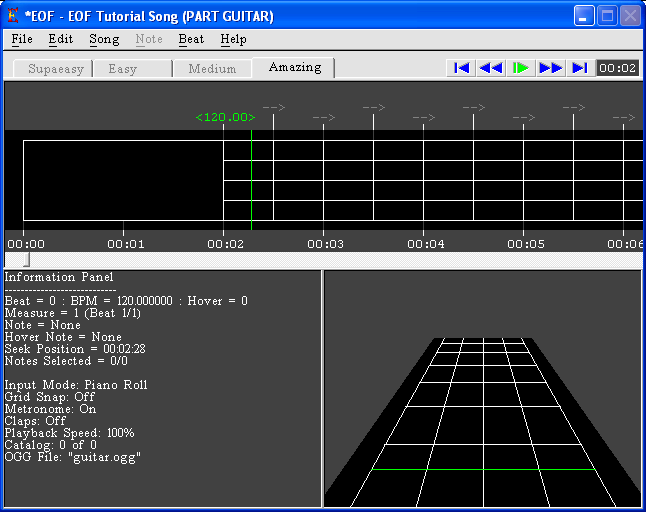
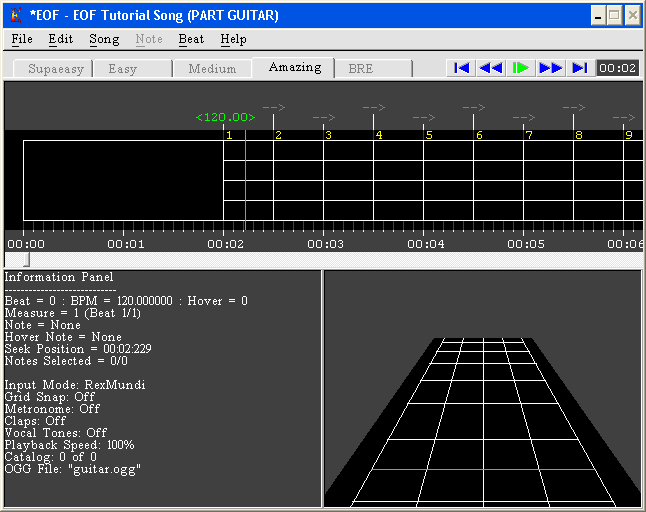
I remade the EOF screen captures to reflect the current features, and added some more information on features such as the waveform graph and measure numbering.

diff --git a/bin/tutorial/index.htm b/bin/tutorial/index.htm
@@ -8,7 +8,7 @@ p {text-indent: 1cm}
 </HEAD>
 <BODY BGCOLOR="313131" TEXT="FFFFFF" LINK="FFFFFF" VLINK="FFFFFF" ALINK="FFFFFF" >
 
-<center><IMG SRC="logo.png" ALT="Logo" BORDER=0 HSPACE=0 VSPACE=3><bR><br></center>
+<center><IMG SRC="logo.png" ALT="Logo" BORDER=0 HSPACE=0 VSPACE=3><br><br></center>
 <center>A song editor for "Frets On Fire"</center><br>
 
 <h1><a name="tutorial">Tutorial</a></h1>
@@ -16,78 +16,88 @@ p {text-indent: 1cm}
 
 <h1><a name="newproject">Creating a New Project</a></h1>
 Select "New" from the "File" menu:<br><br>
-<center><IMG SRC="image3.png" ALT="screen" BORDER=0 HSPACE=0 VSPACE=3><bR><br></center>
+<center><IMG SRC="image3.png" ALT="screen" BORDER=0 HSPACE=0 VSPACE=3><br><br></center>
 
 You will see this screen:<br><br>
-<center><IMG SRC="image4.png" ALT="screen" BORDER=0 HSPACE=0 VSPACE=3><bR><br></center>
+<center><IMG SRC="image4.png" ALT="screen" BORDER=0 HSPACE=0 VSPACE=3><br><br></center>
 
 You will need to select an OGG or MP3 file to use for this project. I've included a simple song which we will use for the purpose of this tutorial. Select "tutorial.ogg" located in the EOF folder:<br><br>
-<center><IMG SRC="image5.png" ALT="screen" BORDER=0 HSPACE=0 VSPACE=3><bR><br></center>
+<center><IMG SRC="image5.png" ALT="screen" BORDER=0 HSPACE=0 VSPACE=3><br><br></center>
 
-Now you will have to tell EOF where you would like the new project to be saved. For this tutorial we will let EOF create a new folder for us. Select the "Create New Folder" radio button and fill in the name of the song folder in the edit box:<br><br>
-<center><IMG SRC="image6.png" ALT="screen" BORDER=0 HSPACE=0 VSPACE=3><bR><br></center>
+Now you can fill in the basic song information:<br><br>
+<center><IMG SRC="image7.png" ALT="screen" BORDER=0 HSPACE=0 VSPACE=3><br><br></center>
 
-Finally, we can fill in the basic song information:<br><br>
-<center><IMG SRC="image7.png" ALT="screen" BORDER=0 HSPACE=0 VSPACE=3><bR><br></center>
+Finally, you will tell EOF where you would like the new project to be saved. For this tutorial we will let EOF create a new folder for us. Select the "Create New Folder" radio button and fill in the name of the song folder in the edit box:<br><br>
+<center><IMG SRC="image6.png" ALT="screen" BORDER=0 HSPACE=0 VSPACE=3><br><br></center>
+
 If the new project is successfully created, the EOF window should now look like this:<br><br>
-<center><IMG SRC="image8.png" ALT="screen" BORDER=0 HSPACE=0 VSPACE=3><bR><br></center>
+<center><IMG SRC="image8.png" ALT="screen" BORDER=0 HSPACE=0 VSPACE=3><br><br></center>
 
 <h1><a name="tempomap">Creating a Tempo Map</a></h1>
 The first thing you will want to do when creating a song is set up a proper tempo map. While this step is not necessary to make a playable song, it will speed up the fretting process and give your song a professional touch.<br><br>
 You will need to turn on the metronome. Do so by selecting "Edit->Metronome" from the menu:<br><br>
-<center><IMG SRC="image9.png" ALT="screen" BORDER=0 HSPACE=0 VSPACE=3><bR><br></center>
+<center><IMG SRC="image9.png" ALT="screen" BORDER=0 HSPACE=0 VSPACE=3><br><br></center>
 With the metronome on you will be able to audibly hear the beat markers while the song is playing. Press play (Space) and listen for about 4 seconds. Notice the first drum beat occurs around the 2 second mark. We want to move the first beat marker so that it matches the first beat of the song. Rewind to the beginning of the song (Home) drag the first beat marker to the 2 second mark:<br><br>
-<center><IMG SRC="image10.png" ALT="screen" BORDER=0 HSPACE=0 VSPACE=3><bR><br></center>
+<center><IMG SRC="image10.png" ALT="screen" BORDER=0 HSPACE=0 VSPACE=3><br><br></center>
 Now rewind to the beginning again and press play. If the metronome sounds exactly when the first beat starts (when you first hear the drums in this case) the beat marker has been placed correctly. If not you will have to adjust it until it is correct. Here's what mine looks like when it's in the correct place:<br><br>
-<center><IMG SRC="image11.png" ALT="screen" BORDER=0 HSPACE=0 VSPACE=3><bR><br></center>
+<center><IMG SRC="image11.png" ALT="screen" BORDER=0 HSPACE=0 VSPACE=3><br><br></center>
 You can also use the "Song Properties" dialog to make adjustments to the position of the first beat marker by changing the "Delay" setting:<br><br>
-<center><IMG SRC="image27.png" ALT="screen" BORDER=0 HSPACE=0 VSPACE=3><bR><br></center>
+<center><IMG SRC="image27.png" ALT="screen" BORDER=0 HSPACE=0 VSPACE=3><br><br></center>
 Once we have the first beat marker in the correct place we need to find the correct BPM for the song. You can use an external program like <a href="http://www.mixmeister.com/bpmanalyzer/bpmanalyzer.asp">MixMeister BPM Analyzer</a> to find the average BPM of the song if you like. You can find the correct BPM using only EOF by listening for the start of the second measure (typically the beat after the second snare drum) and adjusting the fourth beat marker to line up with the start of the first beat of that measure. Listening to the song we can hear that the second measure starts around the 4.5 second mark so let's move the fourth beat marker:<br><br>
-<center><IMG SRC="image12.png" ALT="screen" BORDER=0 HSPACE=0 VSPACE=3><bR><br></center>
+<center><IMG SRC="image12.png" ALT="screen" BORDER=0 HSPACE=0 VSPACE=3><br><br></center>
 Rewind (Left key) a few seconds and listen to see if the fourth beat marker is in the correct place. If not, adjust it until it is correct.<br><br>
 Notice the BPM at the first beat marker has changed from 120. It should be around 106 if the beat markers are placed correctly. This is roughly the correct BPM for the song so we want to set the BPM of the entire song to 106. The easiest way to do this is to use the "Reset BPM" option from the "Beat" menu:<br><br>
-<center><IMG SRC="image13.png" ALT="screen" BORDER=0 HSPACE=0 VSPACE=3><bR><br></center>
+<center><IMG SRC="image13.png" ALT="screen" BORDER=0 HSPACE=0 VSPACE=3><br><br></center>
 You will be asked if you want to erase all BPM changes. Clicking "OK" will set the BPM of the entire song to 106.<br><br>
 If you are having trouble hearing exactly where the beats are you may find it useful to play the song back at 75% or 50% speed. To do so select "Playback Rate" from the "Edit" menu:<br><br>
-<center><IMG SRC="image28.png" ALT="screen" BORDER=0 HSPACE=0 VSPACE=3><bR><br></center>
+<center><IMG SRC="image28.png" ALT="screen" BORDER=0 HSPACE=0 VSPACE=3><br><br></center>
 Now that we have a close BPM value, we will need to listen through the entire song to ensure the beat markers are correct throughout. For most songs you will need to make small adjustments throughout as usually when a band plays they do not keep an exact BPM the entire song.<br><br>
 It is important to note that when compensating for slight variations in BPM over the course of the song you will need to set anchors (select a beat and hit the 'A' key) every measure or two. EOF readjusts all the beat markers in between the marker you click-and-drag and the previous anchor. This can cause earlier beats to be moved inadvertently so it's best to set anchors every so often even if the beats are already lined up correctly. Anchored beats are indicated by a red arrow pointing down at the beat marker. Moving a beat marker with the mouse automatically makes that beat an anchor.<br><br>
+
+You may have noticed those yellow numbers displayed next to the beat markers.  Those tell the placement of each measure and its number, based on the specified Time Signature (see <a href="../manual/functions.htm#timesignature">Beat->Time Signature</a>).  This isn't information that's even used in all versions of Frets on Fire, but it may be useful if you intend to use Time Signature information as a charting aid.  If you select the first beat marker and select Beat>Time Signature>4/4, it will set the time signature, marking every 1 of 4 beat markers with a number.  When the beat is selected, the Information Panel will also display beat and measure numbering information.<br><br>
+
+Depending on the song, it might even help to see a graphical representation of the audio in what is called a waveform graph.  You can display this graph by opening the Song menu, opening the Waveform graph submenu and selecting "Show", or you can use the F5 shortcut key:<br><br>
+<center><IMG SRC="image30.png" ALT="screen" BORDER=0 HSPACE=0 VSPACE=3><br><br></center>
+
+As you can see from the picture below, the goal is to have the beats line up with the drummer.  Although the graph won't always help you immediately identify the drum audio, it may help you make fine tuning adjustments when your hearing is in doubt:<br><br>
+<center><IMG SRC="image31.png" ALT="screen" BORDER=0 HSPACE=0 VSPACE=3><br><br></center>
+
 Once you have reached the end of the song it is a good idea to rewind to the beginning and listen to the whole song with the metronome on. If some beats are a little off go ahead and adjust them until they are correct. Having a correct tempo map is the key to creating a high quality note chart.<br><br>
 Now that the tempo map is finished it might be a good time to save your work. You may also wish to save a an extra copy of the project (see "<a href="../manual/functions.htm#saveas">File->Save As</a>") in case the tempo map is altered irreversibly later on in the edit process.
 
 <h1><a name="fretting">Fretting a Song</a></h1>
 Now let's start adding notes to our song. The first thing we want to do is select a proper grid snap setting. For this song 1/16 should suffice:<br><br>
-<center><IMG SRC="image14.png" ALT="screen" BORDER=0 HSPACE=0 VSPACE=3><bR><br></center>
+<center><IMG SRC="image14.png" ALT="screen" BORDER=0 HSPACE=0 VSPACE=3><br><br></center>
 Grid Snap allows you to more easily control the spacing between notes. The setting represents the fraction of a measure to which notes will snap. 1/4 will snap to each quarter of a measure (or each whole beat). We choose 1/16 for this tutorial because the smallest note in the song we are fretting is 1/16th of a measure in length. The Grid Snap setting also affects note tail length operations in that it will snap the tail to the previous/next grid snap position when changing the length of the tail.<br><br>
 Rewind to the beginning of the song and listen until you hear the first guitar notes played. Notice the guitar between the 11 and 12 second mark:<br><br>
-<center><IMG SRC="image15.png" ALT="screen" BORDER=0 HSPACE=0 VSPACE=3><bR><br></center>
+<center><IMG SRC="image15.png" ALT="screen" BORDER=0 HSPACE=0 VSPACE=3><br><br></center>
 We want to place some notes where the guitar is. Move the mouse to where you heard the guitar notes:<br><br>
-<center><IMG SRC="image16.png" ALT="screen" BORDER=0 HSPACE=0 VSPACE=3><bR><br></center>
+<center><IMG SRC="image16.png" ALT="screen" BORDER=0 HSPACE=0 VSPACE=3><br><br></center>
 Notice that you can see the note colors where the mouse is hovering (assuming the Edit Mode is set to Piano Roll, see <a href="../manual/edit.htm#edit">Edit Modes</a> for details). Right-click to place the notes where you think they should go:<br><br>
-<center><IMG SRC="image17.png" ALT="screen" BORDER=0 HSPACE=0 VSPACE=3><bR><br></center>
+<center><IMG SRC="image17.png" ALT="screen" BORDER=0 HSPACE=0 VSPACE=3><br><br></center>
 We've placed our first notes now but the third note needs to be longer. Click on the third note to select it and scroll the mouse wheel up (or press the ']' key) to extend it. It should now look like this:<br><br>
-<center><IMG SRC="image18.png" ALT="screen" BORDER=0 HSPACE=0 VSPACE=3><bR><br></center>
+<center><IMG SRC="image18.png" ALT="screen" BORDER=0 HSPACE=0 VSPACE=3><br><br></center>
 Now we listen for more notes and place them where we think they should go. It's really up to you where you put the notes but try and be realistic.<br><br>
 At the 21 second mark we notice something new. There are note chords. Making a chord is simply adding a new color to an existing note by right-clicking. I'm going to make mine a blue-purple chord:<br><br>
-<center><IMG SRC="image19.png" ALT="screen" BORDER=0 HSPACE=0 VSPACE=3><bR><br></center>
+<center><IMG SRC="image19.png" ALT="screen" BORDER=0 HSPACE=0 VSPACE=3><br><br></center>
 Next we're going to learn how to copy and paste notes. Many songs have riffs or melodies which repeat multiple times. We can save a lot of time if we copy the notes for these repeating parts instead of re-fretting them.<br><br>
 Fret the song up until the 38 second mark. Between the 29 second mark and the 38 second mark is a part which repeats later on and with variation so let's copy the notes to the clipboard. Select the first note/chord after the 29 second mark:<br><br>
-<center><IMG SRC="image20.png" ALT="screen" BORDER=0 HSPACE=0 VSPACE=3><bR><br></center>
+<center><IMG SRC="image20.png" ALT="screen" BORDER=0 HSPACE=0 VSPACE=3><br><br></center>
 Now forward (Right key) to the 34 second mark, hold Shift and click the last note/chord there:<br><br>
-<center><IMG SRC="image21.png" ALT="screen" BORDER=0 HSPACE=0 VSPACE=3><bR><br></center>
+<center><IMG SRC="image21.png" ALT="screen" BORDER=0 HSPACE=0 VSPACE=3><br><br></center>
 This selects all the notes from the first note you clicked to the note you Shift+clicked. We want to copy these so we go to "Copy" on the "Edit" menu:<br><br>
-<center><IMG SRC="image22.png" ALT="screen" BORDER=0 HSPACE=0 VSPACE=3><bR><br></center>
+<center><IMG SRC="image22.png" ALT="screen" BORDER=0 HSPACE=0 VSPACE=3><br><br></center>
 Now let's forward to where we want to paste the copied notes. Move the song position to somewhere in the beat where we want the pasted notes to start:<br><br>
-<center><IMG SRC="image23.png" ALT="screen" BORDER=0 HSPACE=0 VSPACE=3><bR><br></center>
+<center><IMG SRC="image23.png" ALT="screen" BORDER=0 HSPACE=0 VSPACE=3><br><br></center>
 Select "Paste" from the "Edit" menu to paste the copied notes:<br><br>
-<center><IMG SRC="image24.png" ALT="screen" BORDER=0 HSPACE=0 VSPACE=3><bR><br></center>
+<center><IMG SRC="image24.png" ALT="screen" BORDER=0 HSPACE=0 VSPACE=3><br><br></center>
 Listening to the song we can see that the last note is different this time so let's change it. I want to change my green-yellow chord to a green note so I right-click the yellow note to remove it:<br><br>
-<center><IMG SRC="image25.png" ALT="screen" BORDER=0 HSPACE=0 VSPACE=3><bR><br></center>
+<center><IMG SRC="image25.png" ALT="screen" BORDER=0 HSPACE=0 VSPACE=3><br><br></center>
 Also, notice there are a few extra notes around the 45 second mark so let's fret those:<br><br>
-<center><IMG SRC="image26.png" ALT="screen" BORDER=0 HSPACE=0 VSPACE=3><bR><br></center>
+<center><IMG SRC="image26.png" ALT="screen" BORDER=0 HSPACE=0 VSPACE=3><br><br></center>
 You can place the new notes without shortening the green note as it will be automatically shortened when new notes are placed on it's tail.<br><br>
 You can also use the Catalog to copy sections of a song from one part to another. See <a href="../manual/edit.htm#catalog">the Catalog section of Editing Songs</a> and "<a href="../manual/functions.htm#catalog">Song->Catalog</a>" for information on how to use the Catalog. Here's what the screen looks like with the first repeating guitar part added to the catalog and the catalog view turned on:<br><br>
-<center><IMG SRC="image29.png" ALT="screen" BORDER=0 HSPACE=0 VSPACE=3><bR><br></center>
+<center><IMG SRC="image29.png" ALT="screen" BORDER=0 HSPACE=0 VSPACE=3><br><br></center>
 Pressing the play button in the Catalog view will play back that specific entry so you can easily compare what's in the Catalog to other parts of the song.<br><br>
 Between the 47 and 48 second marker the entire section we just made (from 29 to 47 seconds) repeats so let's copy and paste all those notes.<br><br>
 Fill in 1:06 to 1:26 however you see fit. Congratulations, you have just fretted your first song using EOF. Don't forget to save your work.

diff --git a/bin/manual/functions.htm b/bin/manual/functions.htm
@@ -174,7 +174,7 @@ Enables/disables/toggles the freestyle status of selected lyrics.  See the <a hr
 <h1><a name="bpmchange">BPM Change</a></h1>
 Change the BPM of the currently selected beat. If "This Beat Only" is selected, only the current beat will be set to the new BPM. Further beats will remain at the old BPM setting. "Adjust Notes" causes any notes within beats affected by the BPM change to be scaled to fit (the same as the "<a href="functions.htm#preferences">"Note Auto-Adjust"</a> option when moving beat markers with the mouse).<br>
 <h1><a name="timesignature">Time Signature</a></h1>
-Set the time signature starting from the currently selected beat. This setting does not affect the outputted MIDI file and is simply a visual aid to editing. Setting up a time signature can make it easier to see where you are in the song as each measure begins with a brighter beat line.<br>
+Set the time signature starting from the currently selected beat. This setting does not affect the outputted MIDI file and is simply a visual aid to editing. Setting up a time signature can make it easier to see where you are in the song as each measure begins with a brighter beat line.  Each measure will also have its beat marker labeled with the measure's number in yellow text.<br>
 <h1><a name="add">Add</a></h1>
 Add a beat to the song and adjust the BPM of the previous anchor to make all the beats fit evenly between the previous anchor and the next. Useful if you have two anchors and you need to add some extra beats in between so there are enough beats to match the music. This function is only available when there is at least one anchor after the selected beat.<br>
 <h1><a name="beatdelete">Delete</a></h1>
